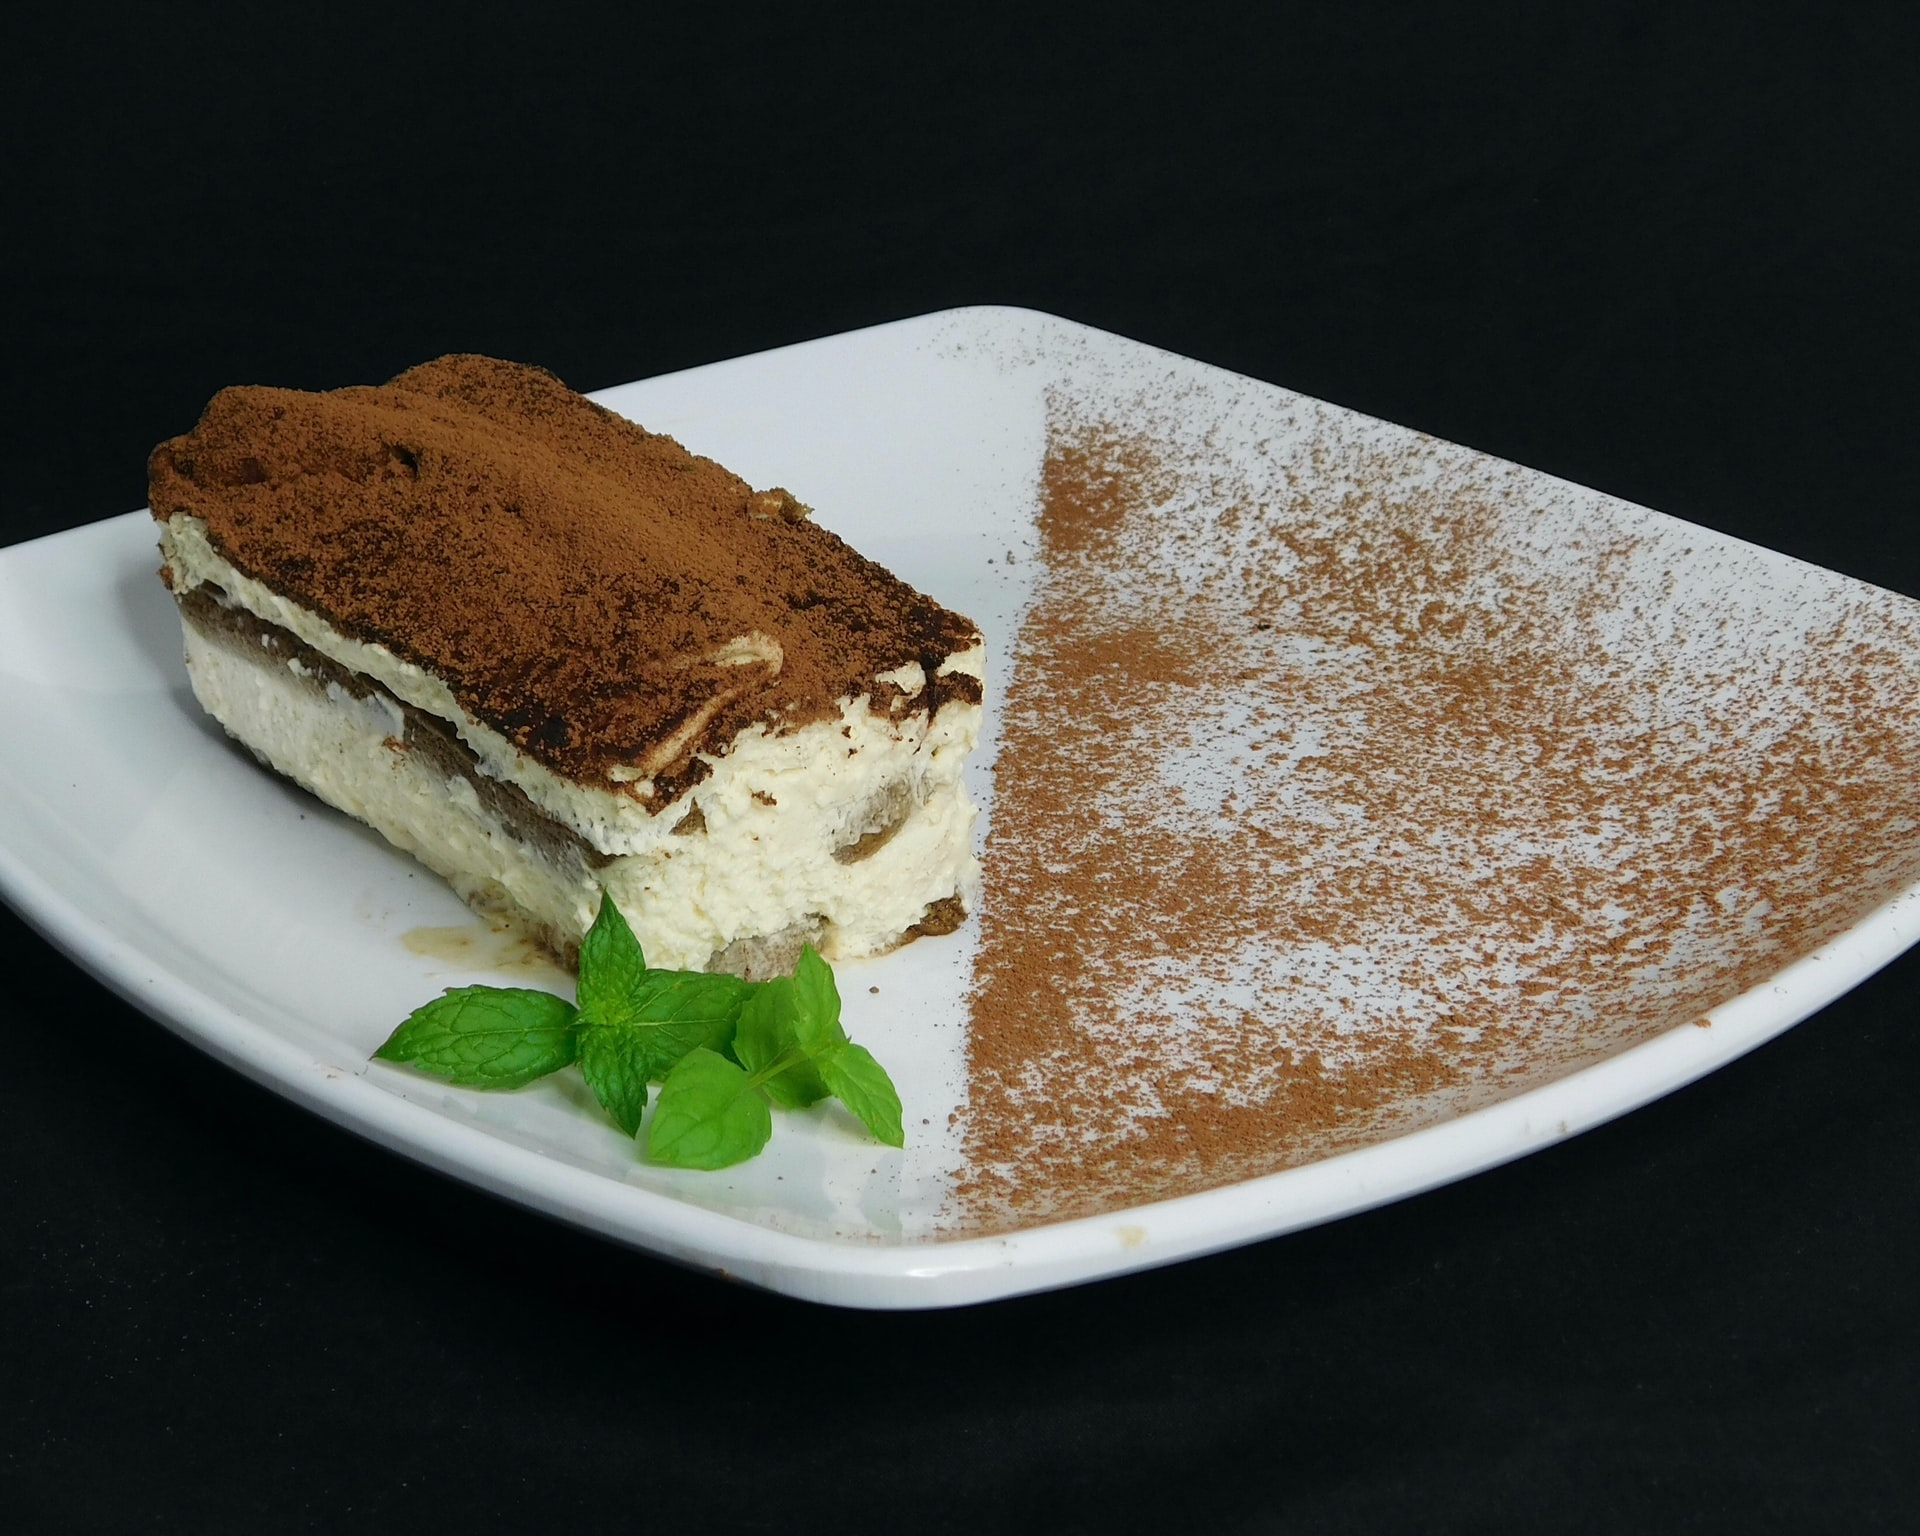
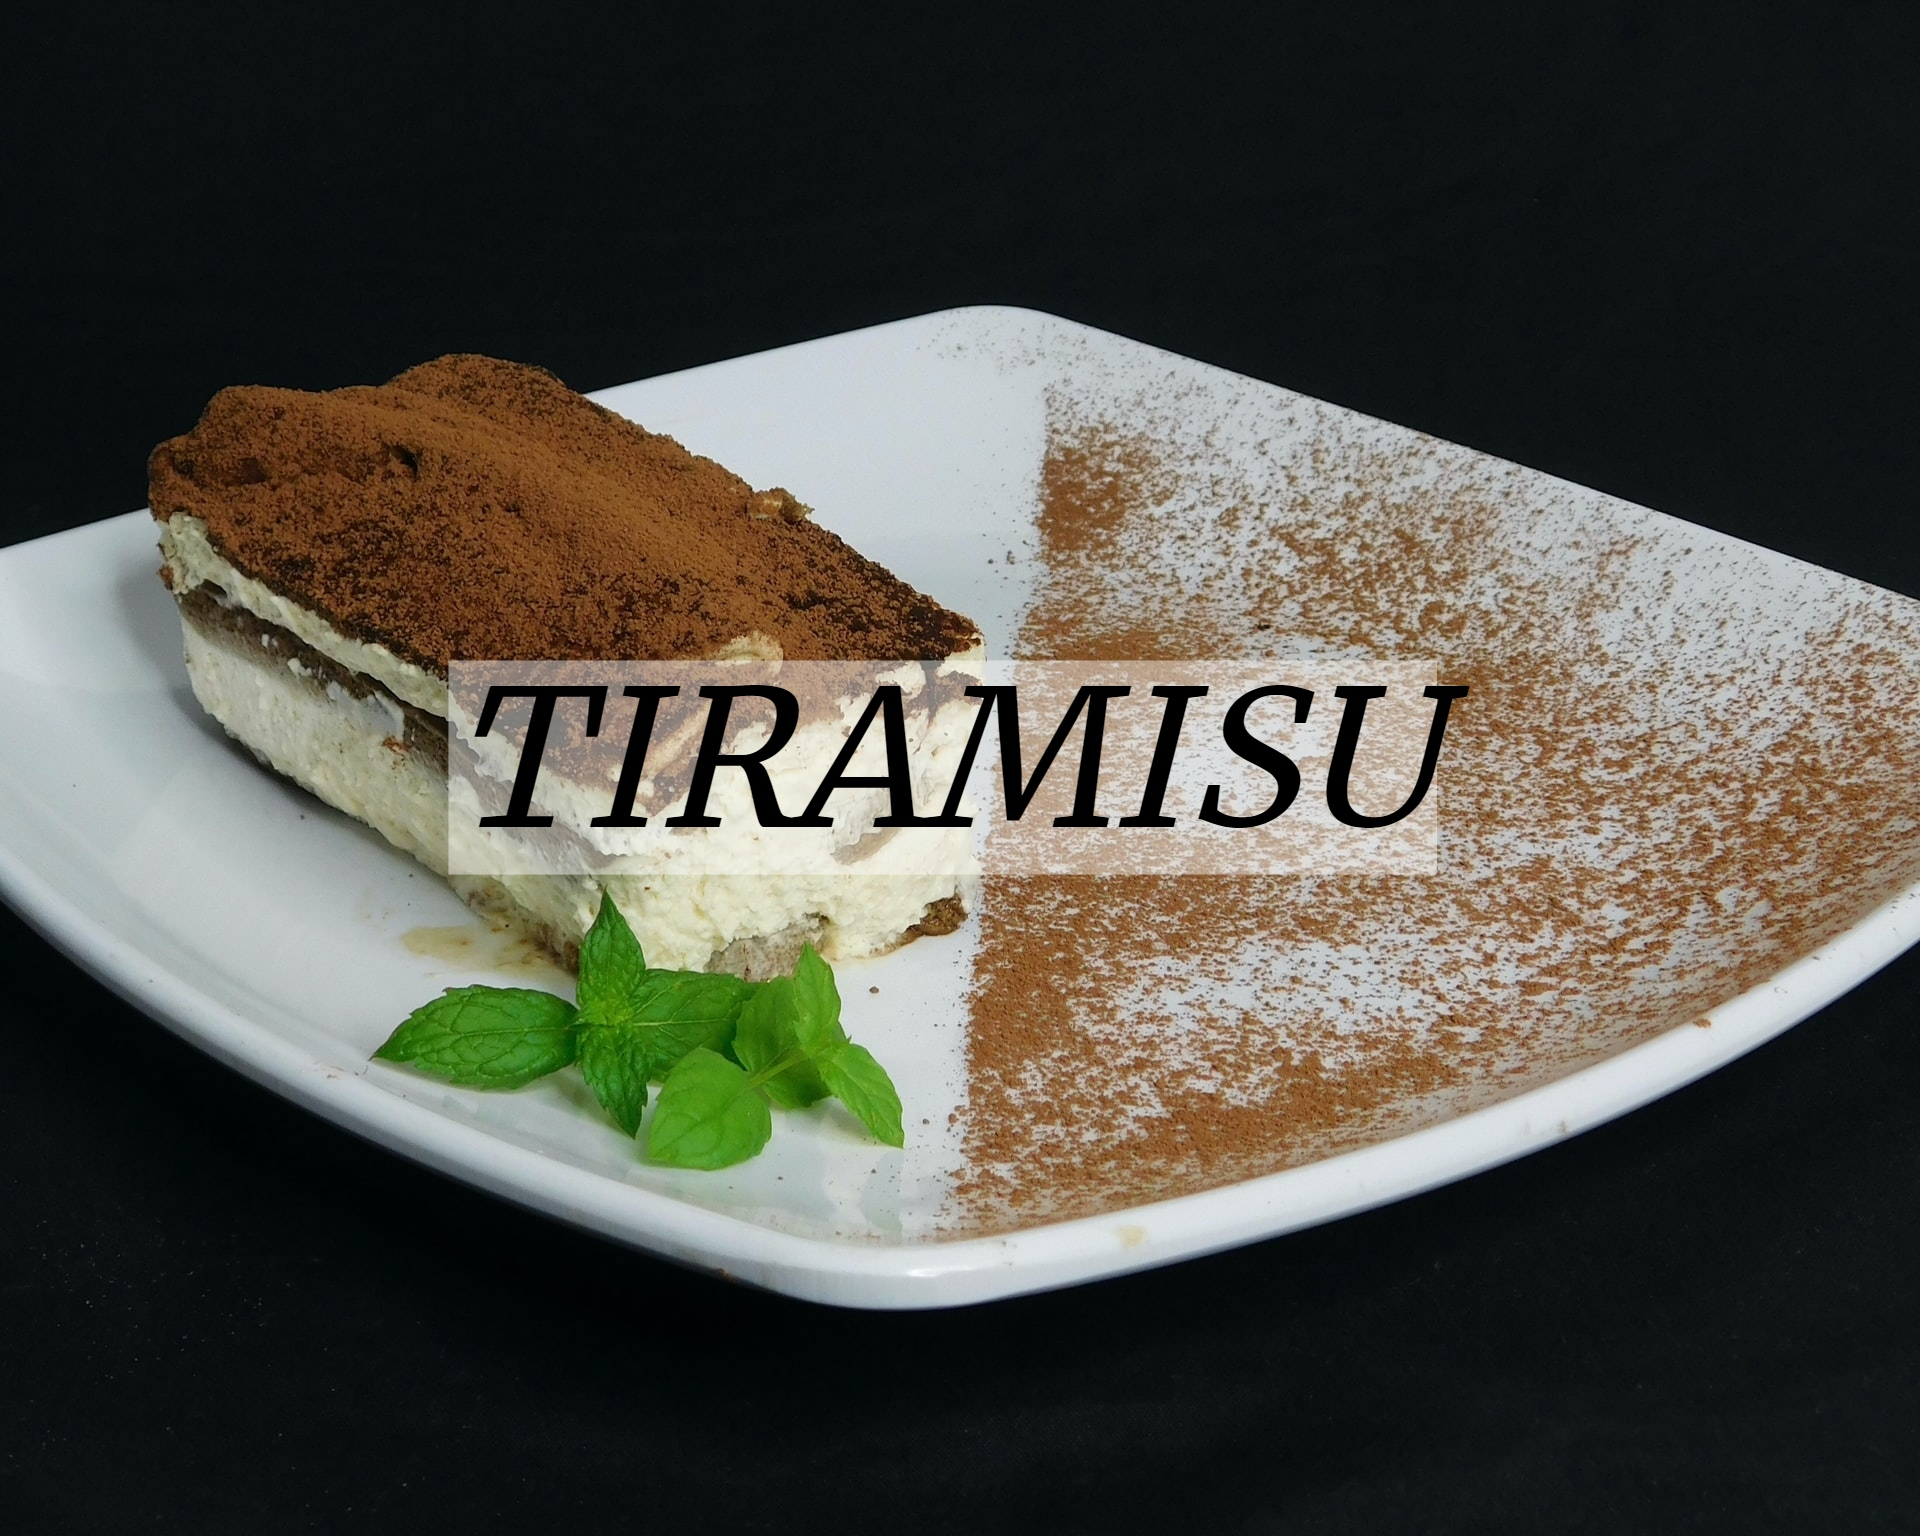
Recetas y Cocteles

Changed region(s): [[0.2188, 0.4062, 0.7812, 0.5938]]

diff --git a/index.html b/index.html
@@ -106,7 +106,7 @@
     <div class="section__imgg">
       <div><img class="section__img1" src="img/croquetas.jpg" alt="" />
         <div class="noticiastexto1">
-
+            <h4>Croquetas de Jamon</h4>
            <p> 1-Corta la mantequilla en dados y ponla a derretir en una cazuela. Pica finamente la cebolleta y el diente
             de ajo y añádelos a la cazuela. Rehoga durante 5-6 minutos,incorpora el jamón picado y saltéalo.
             2-Añade la harina y rehoga bien. Vierte la leche poco a poco, sin dejar de remover. Cocina la bechamel
@@ -122,7 +122,7 @@
 
       <div><img class="section__img2" src="img/rabas.jpg" alt="" />
       <div class="noticiastexto1">
-
+        <h4>Rabas</h4>
         <p>1-Retirá lo extremos duros del tubo del calamar. Cortar los calamares en anillos de 1,5 cm de espesor.
           2-Hacer la huevada: batir los huevos con un poco de sal, pimienta, el ajo y perejil.
           3-Sumergir en el batido los aros de calamar y dejar una hora en la heladera (tapados con papel film) para que tomen sabor...</p>  
@@ -136,7 +136,7 @@
       </div>
       <div><img class="section__img3" src="img/CHEESECAKE.jpg" alt="" />
       <div class="noticiastexto3">
-
+          <h4>Cheesecake</h4>
           <p> 1-recubrir la pared interna del molde con una tira de acetato o de papel manteca.
           2-procesar las galletitas. Derretir la manteca y mezclarla junto con el licor y la miel. Incorporar la mezcla a las galletitas procesadas.
           3-verter la pasta dentro del molde y crear la base de la torta aplastando con una cuchara sopera. Reservar en la heladera....</p>
@@ -149,7 +149,7 @@
       </div>
       <div><img class="section__img4" src="img/tiramisu.jpg" alt="" />
       <div class="noticiastexto4">
-
+          <h4>Tiramisu</h4>
           <p> 1-Batir las yemas a baño María e incorporar el azúcar y el cognac o amaretto. Batimos por 5 minutos aproximadamente. Retirar del fuego y batir hasta que las yemas estén a temperatura ambiente. Van a notar que las yemas triplican su tamaño y hacerse una especie de crema. Hermoso. Vamos bien.
           -batir un poco el mascarpone para que no tenga grumos. El paso mas fácil de la historia pero es muy importante  en esta receta de Tiramisú...</p>
            

diff --git a/Secciones/Recetas.html b/Secciones/Recetas.html
@@ -46,9 +46,45 @@
 
       
     </header>
+<!-------------------------------------------------------------------------------------main---------------------------------------------------------------------------------------------->
 
+<main class="mainRec">
 
+    
+ <section id="galeria" class="container">
+    <div class="row">
+        
+        <div class="col-lg-4 col-md-6 col-md-12">
+           <a href="./Nosotros.html"> <img src="../img/croquetas2.jpg" alt=""> </a> 
+        </div>
+        <div class="col-lg-4 col-md-6 col-md-12">
+           <a href="./Nosotros.html"> <img src="../img/panqueques.jpg" alt=""> </a> 
+        </div>
+        <div class="col-lg-4 col-md-6 col-md-12">
+           <a href="./Nosotros.html"> <img src="../img/empanadas.jpg" alt=""> </a> 
+        </div>
+        <div class="col-lg-4 col-md-6 col-md-12">
+           <a href="./Nosotros.html"> <img src="../img/CHEESECAKE 2.jpg" alt=""> </a> 
+        </div>
+        <div class="col-lg-4 col-md-6 col-md-12">
+           <a href="./Nosotros.html"> <img src="../img/rabas 2.jpg" alt=""> </a> 
+        </div>
+        <div class="col-lg-4 col-md-6 col-md-12">
+           <a href="./Nosotros.html"> <img src="../img/tiramisu.jpg" alt=""> </a> 
+        </div>
+        <div class="col-lg-4 col-md-6 col-md-12">
+           <a href="./Nosotros.html"> <img src="../img/camarones.jpg" alt=""> </a> 
+        </div>
+        <div class="col-lg-4 col-md-6 col-md-12">
+           <a href="./Nosotros.html"> <img src="../img/pastas.jpg" alt=""> </a> 
+        </div>
+        <div class="col-lg-4 col-md-6 col-md-12">
+           <a href="./Nosotros.html"> <img src="../img/costillas de cerdo.jpg" alt=""> </a> 
+        </div>
+    </div>
 
+  </section>
+</main>
 
 
 

diff --git a/Estilo/main.scss b/Estilo/main.scss
@@ -31,9 +31,10 @@ h1 {
 
         a {
             display: block;
-            padding: 15px 20px;
+            padding: 15px 50px;
             color: rgb(255, 255, 255);
             text-decoration: none;
+            
         }
 
 
@@ -145,8 +146,7 @@ h1 {
     }
 
     .noticiastexto1{
-        
-        margin-top: -250px;
+        margin-top: -270px;
         margin-left: 370px;
         margin-right: 1000px;
         font-size: 18px;
@@ -154,16 +154,18 @@ h1 {
     }
 
     .noticiastexto3{
+        
         margin-right: 50px;
-        margin-top: -595px;
-        margin-left: 1320px;
+        margin-top: -620px;
+        margin-left: 1318px;
         font-size: 18px;
     }
 
     .noticiastexto4{
+        
         margin-right: 50px;
-        margin-top: -251px;
-        margin-left: 1320px;
+        margin-top: -273px;
+        margin-left: 1318px;
         font-size: 18px;
 
     }
@@ -239,3 +241,40 @@ h1 {
         object-fit: cover;
     }
 }
+
+
+
+
+/*------------------------------------------------------------------------------------Recetas--------------------------------------------------------------------------------------------------*/
+
+.mainRec{
+
+    #galeria .col-lg-4 {
+        margin: 0 !important;
+        padding: 25px;
+        
+    }
+
+    #galeria img {
+        object-fit: cover;
+        width: 100%;
+        height: 250px;
+    }
+
+    #galeria img:hover {
+        border: 5px solid white;
+    }
+
+    .card-title{
+        color: black;
+        border: solid;
+        text-align: center;
+        margin-top: 100px;
+        font-size: 30px;
+    }
+
+    
+
+}
+
+

diff --git a/Secciones/Cocteles.html b/Secciones/Cocteles.html
@@ -13,7 +13,7 @@
   <link rel="stylesheet" href="../Estilo/main.css" />
 
 </head>
-<body>
+<body class="fondococtel">
 
 
     <!-------------------------------------------------------------------------------------header---------------------------------------------------------------------------------------------->
@@ -48,6 +48,35 @@
 
       
     </header>
+
+
+    <!-------------------------------------------------------------------------------------main---------------------------------------------------------------------------------------------->
+
+    <main class="mainRec">
+
+    
+ <section id="galeria" class="container">
+    <div class="row">
+        
+        <div class="col-lg-4 col-md-6 col-md-12">
+           <a href="./Nosotros.html"> <img src="../img/mojito.jpg" alt=""> </a> 
+        </div>
+        <div class="col-lg-4 col-md-6 col-md-12">
+           <a href="./Nosotros.html"> <img src="../img/negroni.jpg" alt=""> </a> 
+        </div>
+        <div class="col-lg-4 col-md-6 col-md-12">
+           <a href="./Nosotros.html"> <img src="../img/SINGAPORE SLING.jpg" alt=""> </a> 
+        </div>
+        <div class="col-lg-4 col-md-6 col-md-12">
+           <a href="./Nosotros.html"> <img src="../img/Vieux Carré.jpg" alt=""> </a> 
+        </div>
+        <div class="col-lg-4 col-md-6 col-md-12">
+           <a href="./Nosotros.html"> <img src="../img/GIMLET.jpg" alt=""> </a> 
+        </div>
+        <div class="col-lg-4 col-md-6 col-md-12">
+           <a href="./Nosotros.html"> <img src="../img/BLACKBERRY GIN.jpg" alt=""> </a> 
+        </div>
+    </div>
     
 </body>
 </html>

diff --git a/Secciones/Contacto.html b/Secciones/Contacto.html
@@ -1,0 +1,59 @@
+<!DOCTYPE html>
+<html lang="en">
+<head>
+    <meta charset="UTF-8">
+    <meta http-equiv="X-UA-Compatible" content="IE=edge">
+    <meta name="viewport" content="width=device-width, initial-scale=1.0">
+    <title>Be Your Own Chef</title>
+
+    <link href="https://cdn.jsdelivr.net/npm/bootstrap@5.1.1/dist/css/bootstrap.min.css" rel="stylesheet"
+    integrity="sha384-F3w7mX95PdgyTmZZMECAngseQB83DfGTowi0iMjiWaeVhAn4FJkqJByhZMI3AhiU" crossorigin="anonymous" />
+  <link rel="stylesheet" href="../Estilo/main.css" />
+
+</head>
+<body>
+    
+<!-------------------------------------------------------------------------------------header---------------------------------------------------------------------------------------------->
+  <h1>Be Your Own Chef</h1>
+
+    <header class="header">
+      <nav>
+          
+        <ul>
+          <li>
+            <a href="../index.html">Inicio</a>
+          </li>
+
+          <li>
+            <a href="../Secciones/Nosotros.html"
+              >Nosotros</a
+            >
+          </li>
+
+          <li>
+            <a href="../Secciones/Recetas.html">Recetas</a>
+          </li>
+
+          <li>
+            <a href="../Secciones/Cocteles.html">Cocteles</a>
+          </li>
+
+          <li>
+            <a href="../Secciones/Contacto.html">Contacto</a>
+          </li>
+        </ul>
+      </nav>
+
+      
+    </header>
+
+
+
+
+
+
+
+
+
+</body>
+</html>

diff --git a/Estilo/main.css b/Estilo/main.css
@@ -31,7 +31,7 @@ h1 {
 
 .header nav ul a {
   display: block;
-  padding: 15px 20px;
+  padding: 15px 50px;
   color: white;
   text-decoration: none;
 }
@@ -129,7 +129,7 @@ h1 {
 }
 
 .section .noticiastexto1 {
-  margin-top: -250px;
+  margin-top: -270px;
   margin-left: 370px;
   margin-right: 1000px;
   font-size: 18px;
@@ -137,15 +137,15 @@ h1 {
 
 .section .noticiastexto3 {
   margin-right: 50px;
-  margin-top: -595px;
-  margin-left: 1320px;
+  margin-top: -620px;
+  margin-left: 1318px;
   font-size: 18px;
 }
 
 .section .noticiastexto4 {
   margin-right: 50px;
-  margin-top: -251px;
-  margin-left: 1320px;
+  margin-top: -273px;
+  margin-left: 1318px;
   font-size: 18px;
 }
 
@@ -203,5 +203,30 @@ h1 {
   padding: 5px;
   -o-object-fit: cover;
      object-fit: cover;
+}
+
+/*------------------------------------------------------------------------------------Recetas--------------------------------------------------------------------------------------------------*/
+.mainRec #galeria .col-lg-4 {
+  margin: 0 !important;
+  padding: 25px;
+}
+
+.mainRec #galeria img {
+  -o-object-fit: cover;
+     object-fit: cover;
+  width: 100%;
+  height: 250px;
+}
+
+.mainRec #galeria img:hover {
+  border: 5px solid white;
+}
+
+.mainRec .card-title {
+  color: black;
+  border: solid;
+  text-align: center;
+  margin-top: 100px;
+  font-size: 30px;
 }
 /*# sourceMappingURL=main.css.map */
